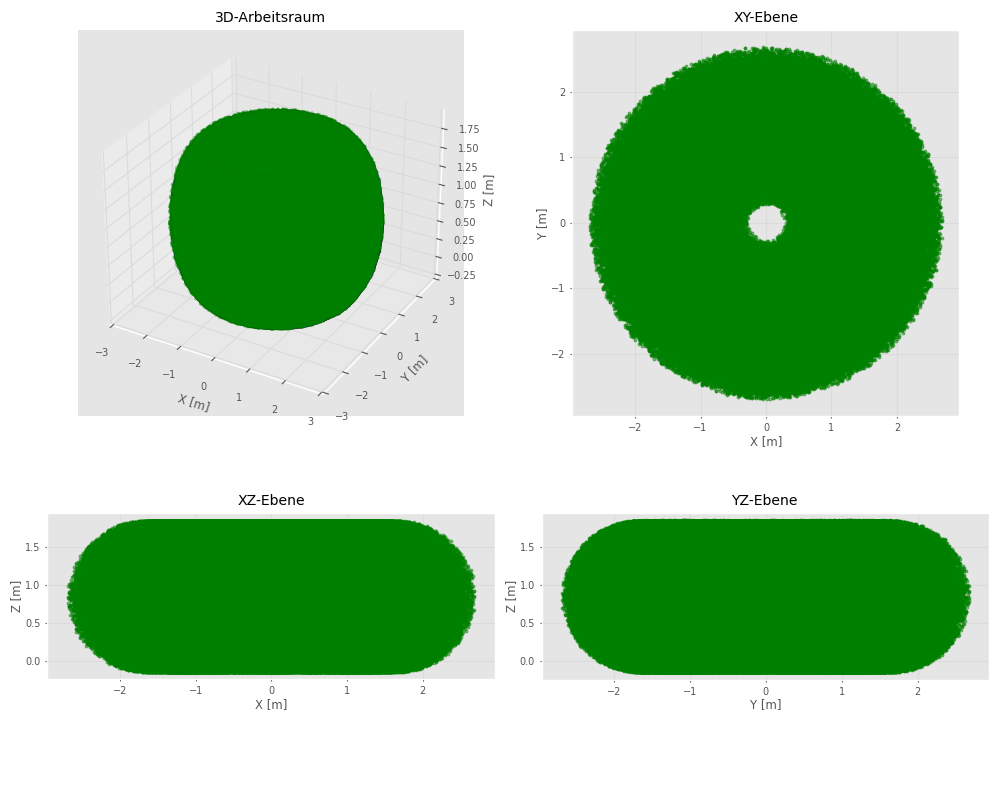
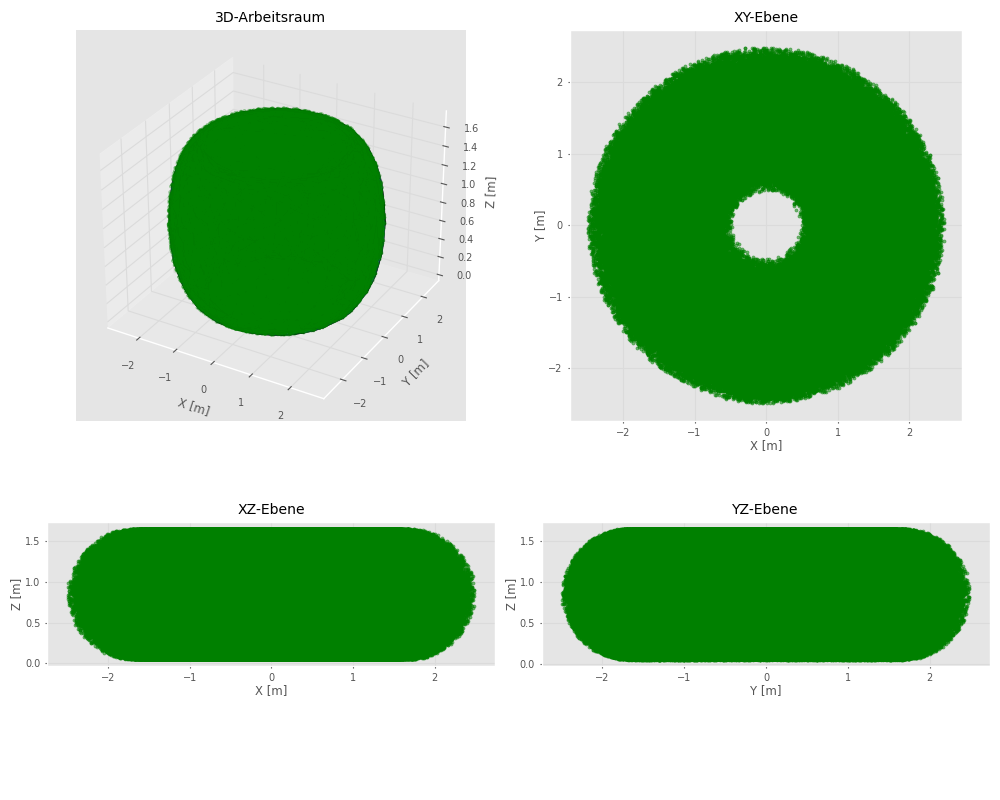
letzte länge von 0,5 auf 0,3 angepasst

diff --git a/Simulation.py b/Simulation.py
@@ -8,7 +8,7 @@ L0 = rtb.RevoluteDH(a=0, alpha=np.deg2rad(-90), d=0.85)
 L1 = rtb.PrismaticDH(a=0, alpha=np.deg2rad(-90), theta=np.deg2rad(-90), offset=1)
 L2 = rtb.RevoluteDH(a=0.5, alpha=0, d=0, offset=np.deg2rad(-90))
 L3 = rtb.RevoluteDH(a=0, alpha=np.deg2rad(-90), d=0, offset=np.deg2rad(-90))
-L4 = rtb.RevoluteDH(a=0, alpha=0, d=0.5)
+L4 = rtb.RevoluteDH(a=0, alpha=0, d=0.3)
 
 robot = rtb.DHRobot([L0, L1, L2, L3, L4], name="DemoBot_Linear")
 
